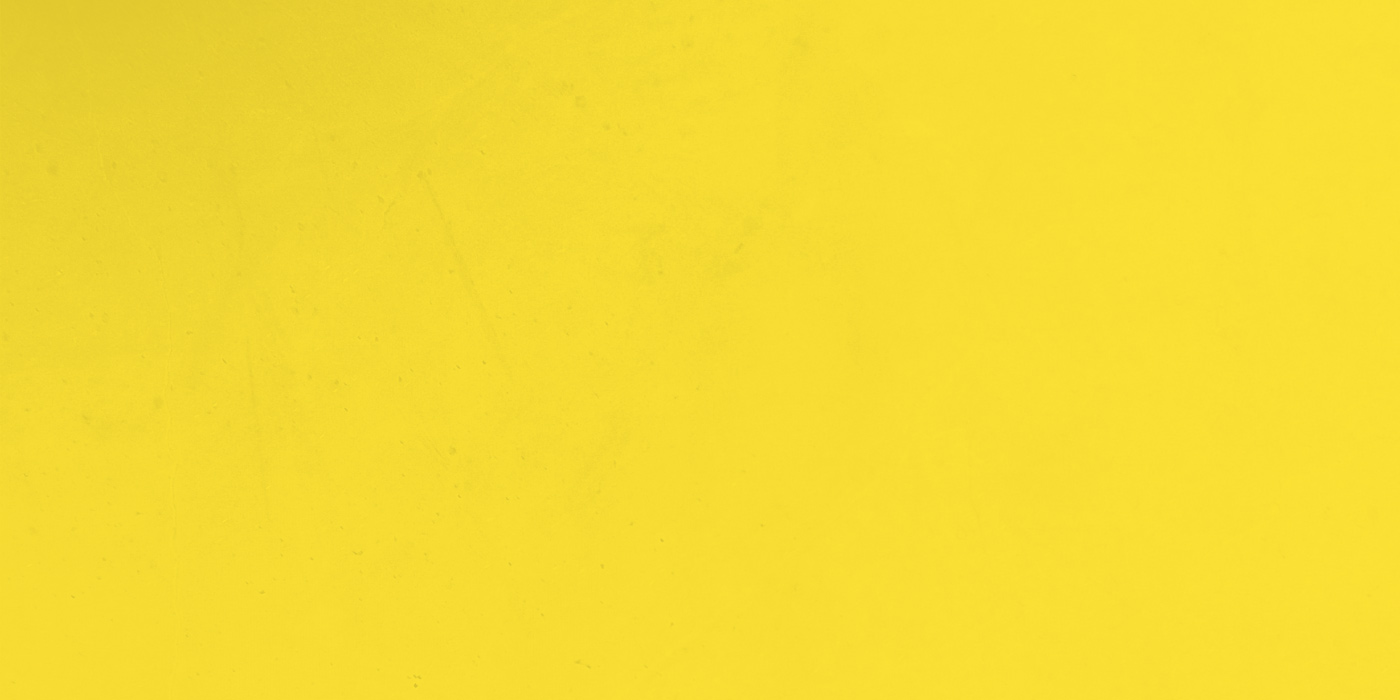
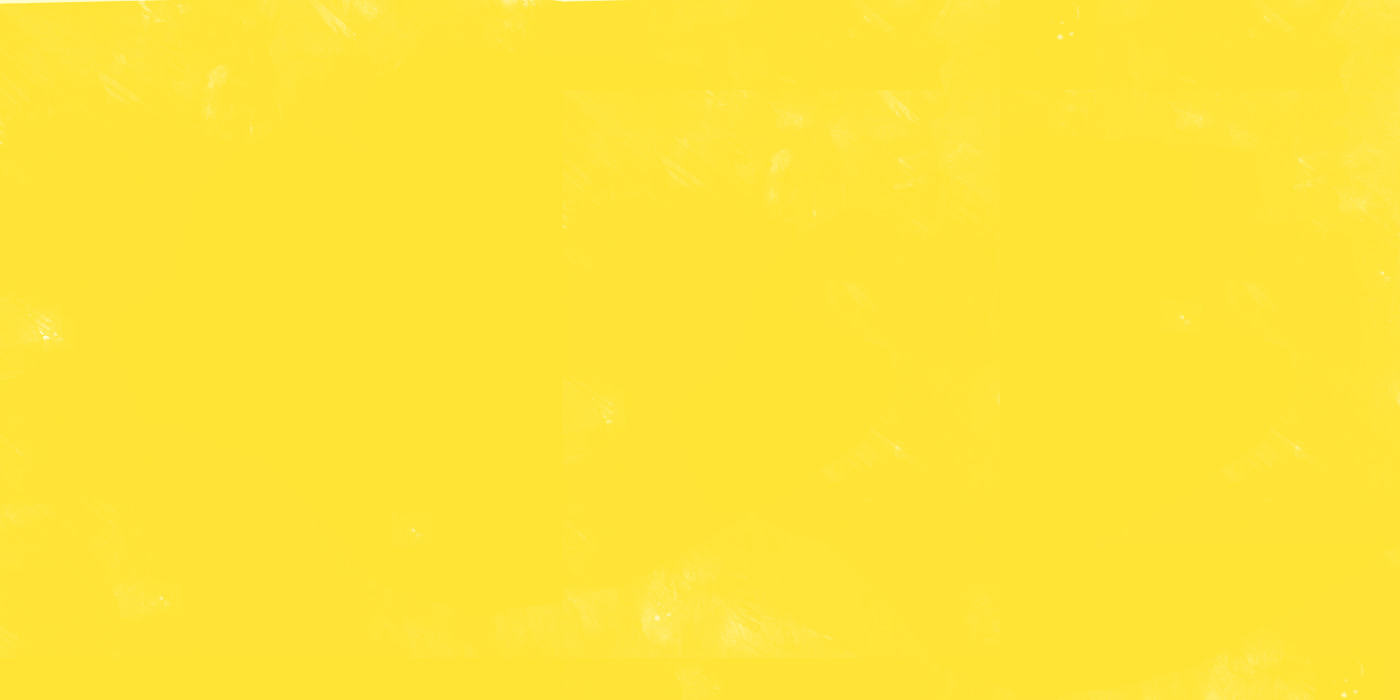
Slightly less bad yellow bg?

diff --git a/css/stylesheet.css b/css/stylesheet.css
@@ -245,7 +245,7 @@ h2 {
 
 .next {
   overflow: hidden;
-  background: #ffe435 url("/img/yellowbg.jpg") center center;
+  background: #ffe435 url("/img/yellowbg.png") center center;
   background-size: cover;
   z-index: 1; }
 
@@ -294,7 +294,7 @@ h2 {
       text-transform: uppercase; }
 
 .footer {
-  background: #191919;
+  background: #111;
   color: #FFF; }
 
 .footer a {

diff --git a/css/stylesheet.scss b/css/stylesheet.scss
@@ -83,7 +83,7 @@ h2 {
 
 .next {
   overflow: hidden;
-  background: #FFE435 url('/img/yellowbg.jpg') center center;
+  background: #FFE435 url('/img/yellowbg.png') center center;
   background-size: cover;
   z-index: 1;
 }
@@ -141,7 +141,7 @@ h2 {
 }
 
 .footer {
-  background: #191919;
+  background: #111;
   color: #FFF;
 }
 
